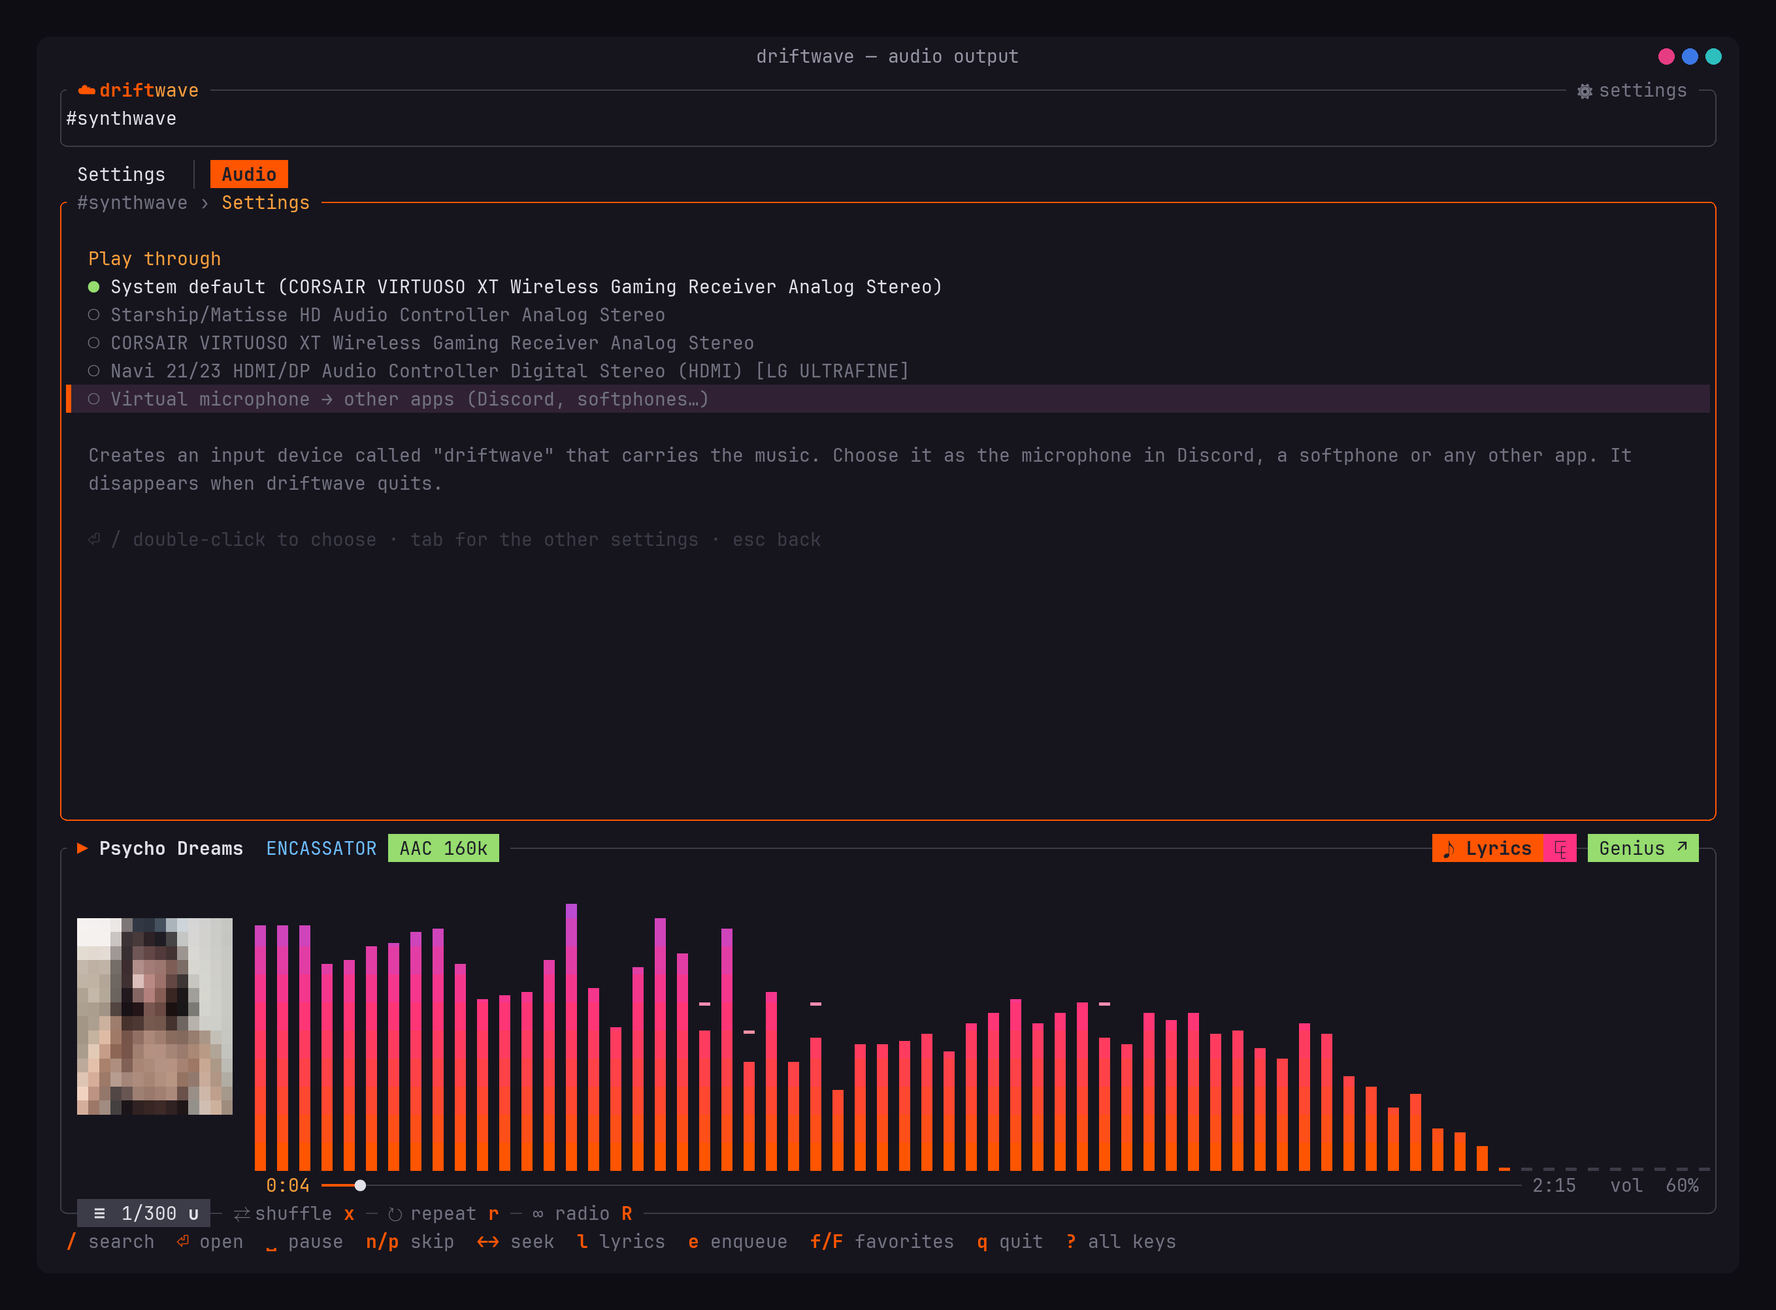
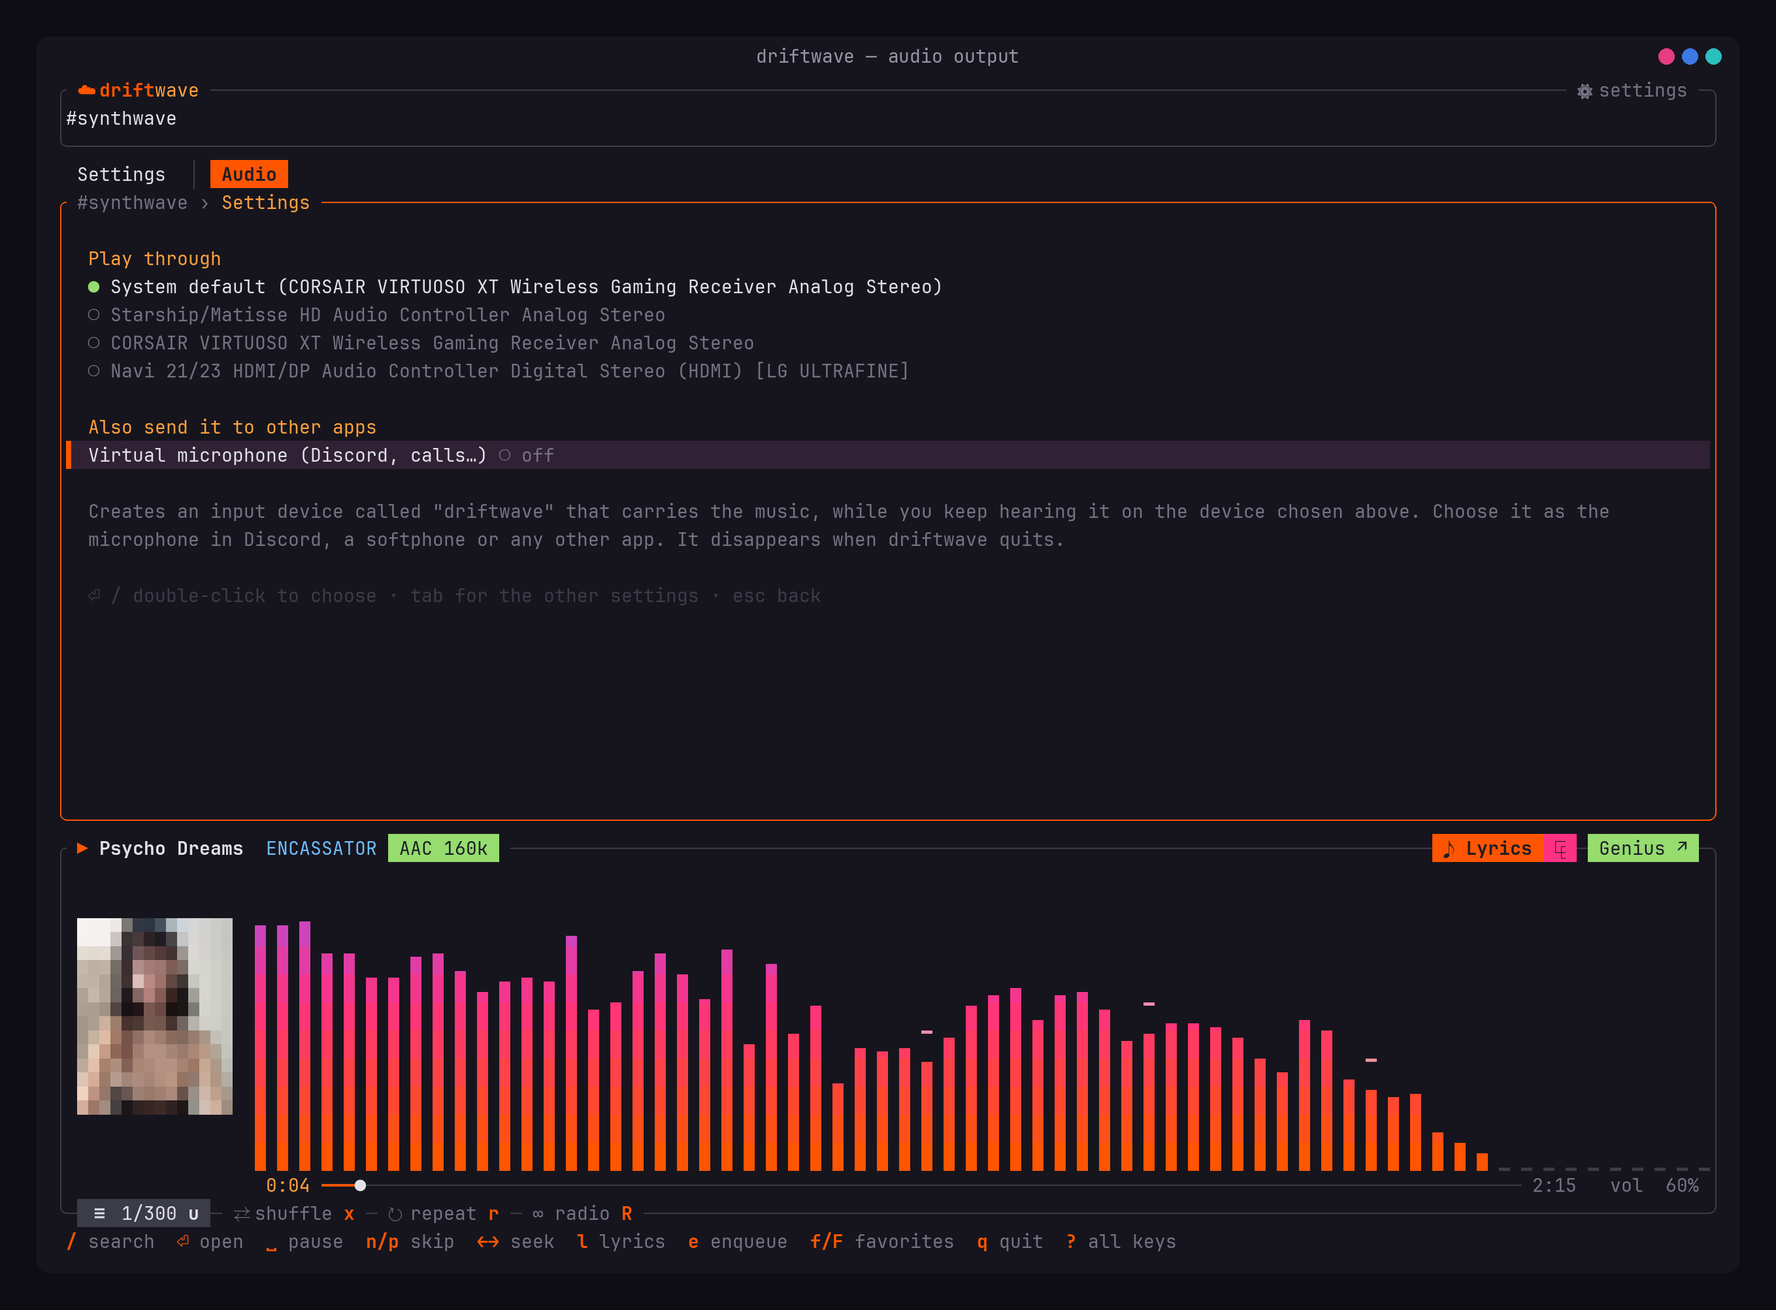
Virtual microphone is a switch on top of the chosen output device

diff --git a/src/output.rs b/src/output.rs
@@ -1,5 +1,5 @@
-//! Where the music goes: a sound card, or a virtual microphone other apps
-//! (Discord, a softphone…) can record from.
+//! Where the music goes: a sound card, and optionally a virtual microphone
+//! other apps (Discord, a softphone…) can record from as well.
 //!
 //! The audio stream itself never changes: it is opened once on the default
 //! device and then moved around inside PipeWire/PulseAudio with `pactl`, so
@@ -7,7 +7,7 @@
 //!
 //!   driftwave ──► driftwave_<pid> (null sink) ──► driftwave_mic_<pid> (source)
 //!                        │                               ▲ apps record here
-//!                        └─► loopback ─► speakers ("hear it too")
+//!                        └─► loopback ─► the chosen device ("hear it too")
 //!
 //! Everything here blocks on `pactl`, so call it from a background thread.
 
@@ -24,13 +24,13 @@ const PREFIX: &str = "driftwave_";
 
 #[derive(Clone, PartialEq, Debug, Default, Serialize, Deserialize)]
 pub enum Output {
-    /// Wherever the system plays sound.
+    /// Wherever the system plays sound. (0.1.3 had the virtual microphone
+    /// as a third choice here; it is its own switch now.)
     #[default]
+    #[serde(alias = "VirtualMic")]
     Default,
     /// A sound card, by its PipeWire/PulseAudio sink name.
     Device(String),
-    /// A microphone other apps can pick as their input.
-    VirtualMic,
 }
 
 pub struct Sink {
@@ -65,7 +65,7 @@ impl Snapshot {
 }
 
 pub enum Change {
-    Apply { output: Output, hear_too: bool, mix_mic: bool },
+    Apply { output: Output, virtual_mic: bool, hear_too: bool, mix_mic: bool },
     /// Point a recording app at the virtual microphone, or back.
     Send { recorder: u32, on: bool },
 }
@@ -235,49 +235,55 @@ fn relink(slot: &mut Option<(u32, String)>, want: Option<String>, args: impl Fn(
 
 impl Routing {
     /// Returns a note for the user when the choice couldn't be honoured.
-    fn apply(&mut self, want: &Output, hear_too: bool, mix_mic: bool, snap: &Snapshot) -> Result<Option<String>> {
+    fn apply(
+        &mut self,
+        want: &Output,
+        virtual_mic: bool,
+        hear_too: bool,
+        mix_mic: bool,
+        snap: &Snapshot,
+    ) -> Result<Option<String>> {
         let Some((input, _)) = snap.our_input else { return Ok(None) };
         let input = input.to_string();
-        match want {
-            Output::VirtualMic => {
-                let (sink, mic) = (sink_name(), mic_name());
-                if self.null.is_none() {
-                    let name = format!("sink_name={sink}");
-                    self.null = Some(load(&["module-null-sink", &name, "sink_properties=device.description=driftwave"])?);
-                }
-                if self.mic.is_none() {
-                    // Apps like Discord hide ".monitor" sources, so give
-                    // them a proper one.
-                    let (master, name) = (format!("master={sink}.monitor"), format!("source_name={mic}"));
-                    self.mic = Some(load(&[
-                        "module-remap-source",
-                        &master,
-                        &name,
-                        "source_properties=device.description=driftwave",
-                    ])?);
-                }
-                pactl(&["move-sink-input", &input, &sink])?;
-                let nonempty = |s: &String| !s.is_empty();
-                let speakers = hear_too.then(|| snap.default_sink.clone()).filter(nonempty);
-                relink(&mut self.hear, speakers, |to| [format!("source={sink}.monitor"), format!("sink={to}")])?;
-                let voice = mix_mic.then(|| snap.default_source.clone()).filter(nonempty);
-                relink(&mut self.mix, voice, |from| [format!("source={from}"), format!("sink={sink}")])?;
-                Ok(None)
+        // The chosen sound card, when it is connected.
+        let device = match want {
+            Output::Device(name) if snap.sinks.iter().any(|s| s.name == *name) => Some(name.clone()),
+            _ => None,
+        };
+        let note = match want {
+            Output::Device(name) if device.is_none() => {
+                Some(format!("{name} isn't connected; playing on the system default"))
             }
-            Output::Device(name) if snap.sinks.iter().any(|s| s.name == *name) => {
-                pactl(&["move-sink-input", &input, name])?;
-                self.drop_virtual();
-                Ok(None)
+            _ => None,
+        };
+        if virtual_mic {
+            let (sink, mic) = (sink_name(), mic_name());
+            if self.null.is_none() {
+                let name = format!("sink_name={sink}");
+                self.null = Some(load(&["module-null-sink", &name, "sink_properties=device.description=driftwave"])?);
             }
-            other => {
-                pactl(&["move-sink-input", &input, "@DEFAULT_SINK@"])?;
-                self.drop_virtual();
-                Ok(match other {
-                    Output::Device(name) => Some(format!("{name} isn't connected; playing on the system default")),
-                    _ => None,
-                })
+            if self.mic.is_none() {
+                // Apps like Discord hide ".monitor" sources, so give
+                // them a proper one.
+                let (master, name) = (format!("master={sink}.monitor"), format!("source_name={mic}"));
+                self.mic = Some(load(&[
+                    "module-remap-source",
+                    &master,
+                    &name,
+                    "source_properties=device.description=driftwave",
+                ])?);
             }
+            pactl(&["move-sink-input", &input, &sink])?;
+            let nonempty = |s: &String| !s.is_empty();
+            let speakers = hear_too.then(|| device.unwrap_or_else(|| snap.default_sink.clone())).filter(nonempty);
+            relink(&mut self.hear, speakers, |to| [format!("source={sink}.monitor"), format!("sink={to}")])?;
+            let voice = mix_mic.then(|| snap.default_source.clone()).filter(nonempty);
+            relink(&mut self.mix, voice, |from| [format!("source={from}"), format!("sink={sink}")])?;
+        } else {
+            pactl(&["move-sink-input", &input, device.as_deref().unwrap_or("@DEFAULT_SINK@")])?;
+            self.drop_virtual();
         }
+        Ok(note)
     }
 
     fn send(&mut self, recorder: u32, on: bool, snap: &Snapshot) -> Result<()> {
@@ -324,7 +330,9 @@ pub fn sync(routing: &Mutex<Routing>, change: Option<Change>) -> Result<(Snapsho
     let Some(change) = change else { return Ok((snap, None)) };
     let mut routing = routing.lock().unwrap();
     let note = match change {
-        Change::Apply { output, hear_too, mix_mic } => routing.apply(&output, hear_too, mix_mic, &snap)?,
+        Change::Apply { output, virtual_mic, hear_too, mix_mic } => {
+            routing.apply(&output, virtual_mic, hear_too, mix_mic, &snap)?
+        }
         Change::Send { recorder, on } => {
             routing.send(recorder, on, &snap)?;
             None
@@ -355,6 +363,7 @@ pub enum Row {
     Device(usize),
     /// The saved device, which isn't connected right now.
     Missing,
+    /// The switch that also sends the music to the virtual microphone.
     VirtualMic,
     HearToo,
     MixMic,
@@ -368,14 +377,14 @@ impl Row {
     }
 }
 
-pub fn rows(snap: &Snapshot, current: &Output) -> Vec<Row> {
+pub fn rows(snap: &Snapshot, current: &Output, virtual_mic: bool) -> Vec<Row> {
     let mut rows = vec![Row::Heading("Play through"), Row::Default];
     rows.extend((0..snap.sinks.len()).map(Row::Device));
     if matches!(current, Output::Device(name) if !snap.sinks.iter().any(|s| s.name == *name)) {
         rows.push(Row::Missing);
     }
-    rows.push(Row::VirtualMic);
-    if *current == Output::VirtualMic {
+    rows.extend([Row::Note(""), Row::Heading("Also send it to other apps"), Row::VirtualMic]);
+    if virtual_mic {
         rows.extend([Row::HearToo, Row::MixMic, Row::Heading("Send to an app that is recording now")]);
         if snap.recorders.is_empty() {
             rows.push(Row::Note("(none: start a call, or pick \"driftwave\" as the app's input device)"));
@@ -448,16 +457,19 @@ mod tests {
             our_input: None,
         };
         assert_eq!(snap.description(&snap.default_sink), "Headset Analog Stereo");
-        let plain = rows(&snap, &Output::Default);
-        assert_eq!(plain[1..], [Row::Default, Row::Device(0), Row::Device(1), Row::VirtualMic]);
+        let plain = rows(&snap, &Output::Default, false);
+        assert_eq!(plain[1..4], [Row::Default, Row::Device(0), Row::Device(1)]);
+        assert_eq!(plain.last(), Some(&Row::VirtualMic));
         assert!(!plain[0].selectable() && plain[1].selectable());
         // An unplugged saved device stays visible; the microphone's options
-        // only show while it is chosen.
-        assert!(rows(&snap, &Output::Device("gone".into())).contains(&Row::Missing));
-        let mic = rows(&snap, &Output::VirtualMic);
-        assert!(mic.contains(&Row::HearToo) && mic.contains(&Row::MixMic) && !mic.contains(&Row::Missing));
+        // only show while it is on, and the devices stay there to choose from.
+        assert!(rows(&snap, &Output::Device("gone".into()), false).contains(&Row::Missing));
+        assert!(!plain.contains(&Row::HearToo));
+        let mic = rows(&snap, &Output::Default, true);
+        assert!(mic.contains(&Row::HearToo) && mic.contains(&Row::MixMic) && mic.contains(&Row::Device(1)));
 
         let saved = serde_json::to_string(&Output::Device("x".into())).unwrap();
         assert_eq!(serde_json::from_str::<Output>(&saved).unwrap(), Output::Device("x".into()));
+        assert_eq!(serde_json::from_str::<Output>(r#""VirtualMic""#).unwrap(), Output::Default, "a 0.1.3 state file");
     }
 }

diff --git a/src/app.rs b/src/app.rs
@@ -229,7 +229,7 @@ impl App {
             routing: Default::default(),
             output_busy: false,
             // Left alone unless the user chose something.
-            output_wanted: state.output != Output::Default,
+            output_wanted: state.output != Output::Default || state.virtual_mic,
             output_tries: OUTPUT_TRIES,
             output_next: Instant::now(),
             output_send: None,
@@ -801,7 +801,7 @@ impl App {
     /// The Audio tab's rows right now.
     pub fn audio_rows(&self) -> Vec<Row> {
         match &self.outputs {
-            Some(Ok(snap)) => output::rows(snap, &self.state.output),
+            Some(Ok(snap)) => output::rows(snap, &self.state.output, self.state.virtual_mic),
             _ => Vec::new(),
         }
     }
@@ -822,11 +822,12 @@ impl App {
     /// Enter on an Audio row: choose that output, or flip the option.
     fn activate_audio_row(&mut self) {
         let Some(Ok(snap)) = &self.outputs else { return };
-        let Some(&row) = output::rows(snap, &self.state.output).get(self.audio_sel) else { return };
+        let rows = output::rows(snap, &self.state.output, self.state.virtual_mic);
+        let Some(&row) = rows.get(self.audio_sel) else { return };
         match row {
             Row::Default => self.state.output = Output::Default,
             Row::Device(i) => self.state.output = Output::Device(snap.sinks[i].name.clone()),
-            Row::VirtualMic => self.state.output = Output::VirtualMic,
+            Row::VirtualMic => self.state.virtual_mic = !self.state.virtual_mic,
             Row::HearToo => self.state.hear_too = !self.state.hear_too,
             Row::MixMic => self.state.mix_mic = !self.state.mix_mic,
             Row::App(i) => {
@@ -844,13 +845,17 @@ impl App {
 
     /// Where the music is going, when that isn't simply the default device.
     pub fn output_label(&self) -> Option<String> {
-        match &self.state.output {
+        let device = match &self.state.output {
             Output::Default => None,
-            Output::VirtualMic => Some("virtual mic".into()),
             Output::Device(name) => Some(match &self.outputs {
                 Some(Ok(snap)) => snap.description(name).to_string(),
                 _ => name.clone(),
             }),
+        };
+        match (device, self.state.virtual_mic) {
+            (device, false) => device,
+            (Some(device), true) if self.state.hear_too => Some(format!("virtual mic + {device}")),
+            (_, true) => Some("virtual mic".into()),
         }
     }
 
@@ -868,6 +873,7 @@ impl App {
             (self.output_wanted, applied) = (false, true);
             Some(output::Change::Apply {
                 output: self.state.output.clone(),
+                virtual_mic: self.state.virtual_mic,
                 hear_too: self.state.hear_too,
                 mix_mic: self.state.mix_mic,
             })
@@ -906,12 +912,16 @@ impl App {
                 } else if let Some(note) = note {
                     self.status = note;
                 } else if applying {
-                    let to = match &self.state.output {
+                    let device = match &self.state.output {
                         Output::Default => format!("system default ({})", snap.description(&snap.default_sink)),
                         Output::Device(name) => snap.description(name).to_string(),
-                        Output::VirtualMic => "virtual microphone (\"driftwave\" in other apps)".into(),
                     };
-                    self.status = format!("Output: {to}");
+                    let mic = "virtual microphone (\"driftwave\" in other apps)";
+                    self.status = match (self.state.virtual_mic, self.state.hear_too) {
+                        (false, _) => format!("Output: {device}"),
+                        (true, true) => format!("Output: {device} + {mic}"),
+                        (true, false) => format!("Output: {mic} only"),
+                    };
                 }
                 self.outputs = Some(Ok(snap));
                 let rows = self.audio_rows();

diff --git a/src/ui.rs b/src/ui.rs
@@ -423,7 +423,7 @@ fn draw_audio(frame: &mut Frame, app: &mut App, block: Block, area: Rect) {
         }
     };
     let st = &app.state;
-    let list = crate::output::rows(snap, &st.output);
+    let list = crate::output::rows(snap, &st.output, st.virtual_mic);
     let rows = Rect { x: inner.x, y: inner.y + 1, width: inner.width, height: (list.len() as u16).min(inner.height.saturating_sub(1)) };
     app.hits.settings_rows = rows;
     let choice = |on: bool, label: String| {
@@ -452,10 +452,11 @@ fn draw_audio(frame: &mut Frame, app: &mut App, block: Block, area: Rect) {
                 let name = if let Output::Device(name) = &st.output { name.as_str() } else { "" };
                 choice(true, format!("{name} (not connected: using the system default)"))
             }
-            Row::VirtualMic => choice(
-                st.output == Output::VirtualMic,
-                "Virtual microphone → other apps (Discord, softphones…)".into(),
-            ),
+            Row::VirtualMic => {
+                let on = st.virtual_mic;
+                let value = if on { Span::raw("● on").fg(LIME).bold() } else { Span::raw("○ off").fg(MUTED) };
+                vec![Span::raw(format!("{:<34} ", "Virtual microphone (Discord, calls…)")).fg(TEXT), value]
+            }
             Row::HearToo => option(st.hear_too, "Hear it on my speakers too"),
             Row::MixMic => option(st.mix_mic, "Mix in my microphone"),
             Row::App(n) => option(snap.recorders[n].sent, &snap.recorders[n].app),
@@ -471,10 +472,11 @@ fn draw_audio(frame: &mut Frame, app: &mut App, block: Block, area: Rect) {
     if help_y < inner.bottom() {
         let text = match list.get(app.audio_sel) {
             Some(Row::VirtualMic) => {
-                "Creates an input device called \"driftwave\" that carries the music. Choose it as the \
-                 microphone in Discord, a softphone or any other app. It disappears when driftwave quits."
+                "Creates an input device called \"driftwave\" that carries the music, while you keep \
+                 hearing it on the device chosen above. Choose it as the microphone in Discord, a softphone \
+                 or any other app. It disappears when driftwave quits."
             }
-            Some(Row::HearToo) => "Also play the music on the system's default output, so you hear what the others hear.",
+            Some(Row::HearToo) => "Keep playing the music on the device chosen above, so you hear what the others hear.",
             Some(Row::MixMic) => {
                 "Add your real (default) microphone to the virtual one, so the others hear you and the music."
             }

diff --git a/src/state.rs b/src/state.rs
@@ -45,7 +45,9 @@ pub struct State {
     pub favorites: Vec<Track>,
     /// Where the music plays (see `output`).
     pub output: crate::output::Output,
-    /// With the virtual microphone: also play on the speakers, and mix the
+    /// Also send the music to a virtual microphone for other apps.
+    pub virtual_mic: bool,
+    /// With the virtual microphone: also play on `output`, and mix the
     /// real microphone in.
     pub hear_too: bool,
     pub mix_mic: bool,
@@ -71,6 +73,7 @@ impl Default for State {
             history: Vec::new(),
             favorites: Vec::new(),
             output: Default::default(),
+            virtual_mic: false,
             hear_too: true,
             mix_mic: false,
         }
@@ -176,19 +179,21 @@ mod tests {
         assert!(s.toggle_favorite(&track(5)) && s.toggle_favorite(&track(6)));
         assert!(!s.toggle_favorite(&track(5)), "a second time removes it");
         assert!(s.toggle_favorite(&track(7)) && s.is_favorite(6) && !s.is_favorite(5));
-        s.output = crate::output::Output::VirtualMic;
+        s.output = crate::output::Output::Device("card".into());
+        s.virtual_mic = true;
 
         let back: State = serde_json::from_str(&serde_json::to_string(&s).unwrap()).unwrap();
         assert_eq!(back.volume(), 0.4);
         assert_eq!(back.repeat, Repeat::One);
         assert_eq!(back.history.len(), 3);
         assert_eq!(back.favorites.iter().map(|t| t.id).collect::<Vec<_>>(), [7, 6], "newest first");
-        assert_eq!(back.output, crate::output::Output::VirtualMic);
+        assert!(back.output == crate::output::Output::Device("card".into()) && back.virtual_mic);
 
         // Older/partial files still load, with defaults for missing fields.
         let mut partial: State = serde_json::from_str(r#"{"volume": 0.1}"#).unwrap();
         assert!(partial.notifications && partial.history.is_empty());
         assert!(partial.favorites.is_empty() && partial.hear_too && partial.output == Default::default());
+        assert!(!partial.virtual_mic);
         // An old linear volume carries over at the same loudness.
         partial.migrate();
         assert!((partial.volume() - 0.464).abs() < 0.001);

diff --git a/README.md b/README.md
@@ -188,10 +188,12 @@ Press `O` (or open Settings and switch to the **Audio** tab) to choose where the
 It switches right away, mid-song, and is remembered.
 
 - **System default** or any **sound card**: headset, speakers, HDMI…
-- **Virtual microphone**: creates an input device called `driftwave` that carries the music.
-  Pick it as the microphone in Discord, a softphone or any other app, and the people there
-  hear what you play.
-  - *Hear it on my speakers too* keeps the music audible for you as well.
+- **Virtual microphone**: a switch, on top of the device you chose. It creates an input device
+  called `driftwave` that carries the music. Pick it as the microphone in Discord, a softphone
+  or any other app, and the people there hear what you play while you keep hearing it on your
+  own device.
+  - *Hear it on my speakers too* (on by default) keeps the music on the device you chose; turn
+    it off to send the music only to the other app.
   - *Mix in my microphone* adds your real microphone, so they hear you and the music.
   - *Send to an app that is recording now* lists apps that are in a call and switches one over
     without touching its settings. Turning it off, or quitting driftwave, puts its own
